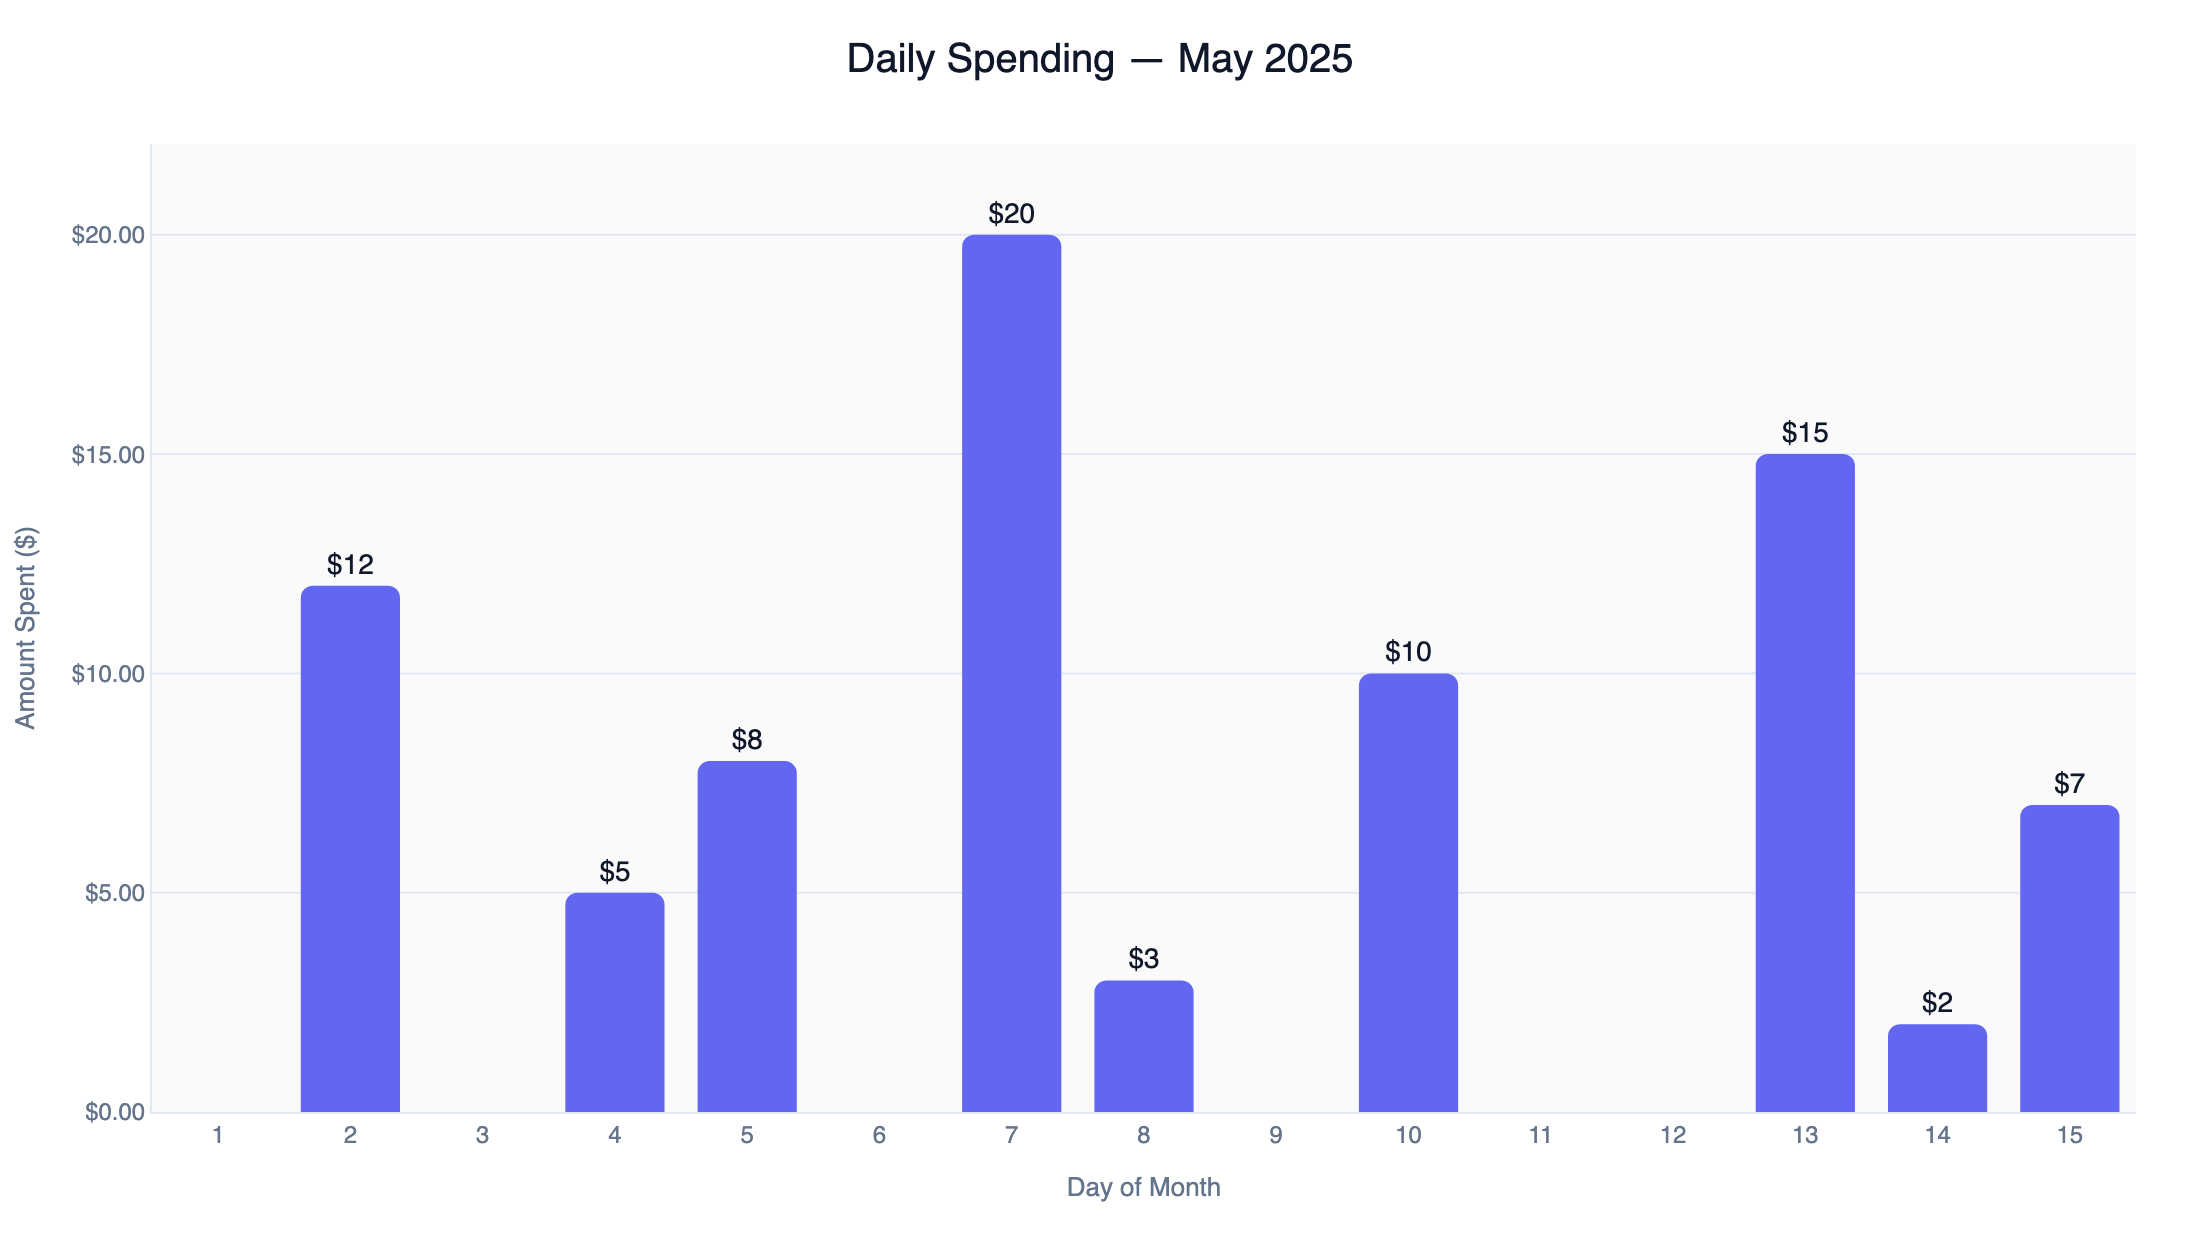
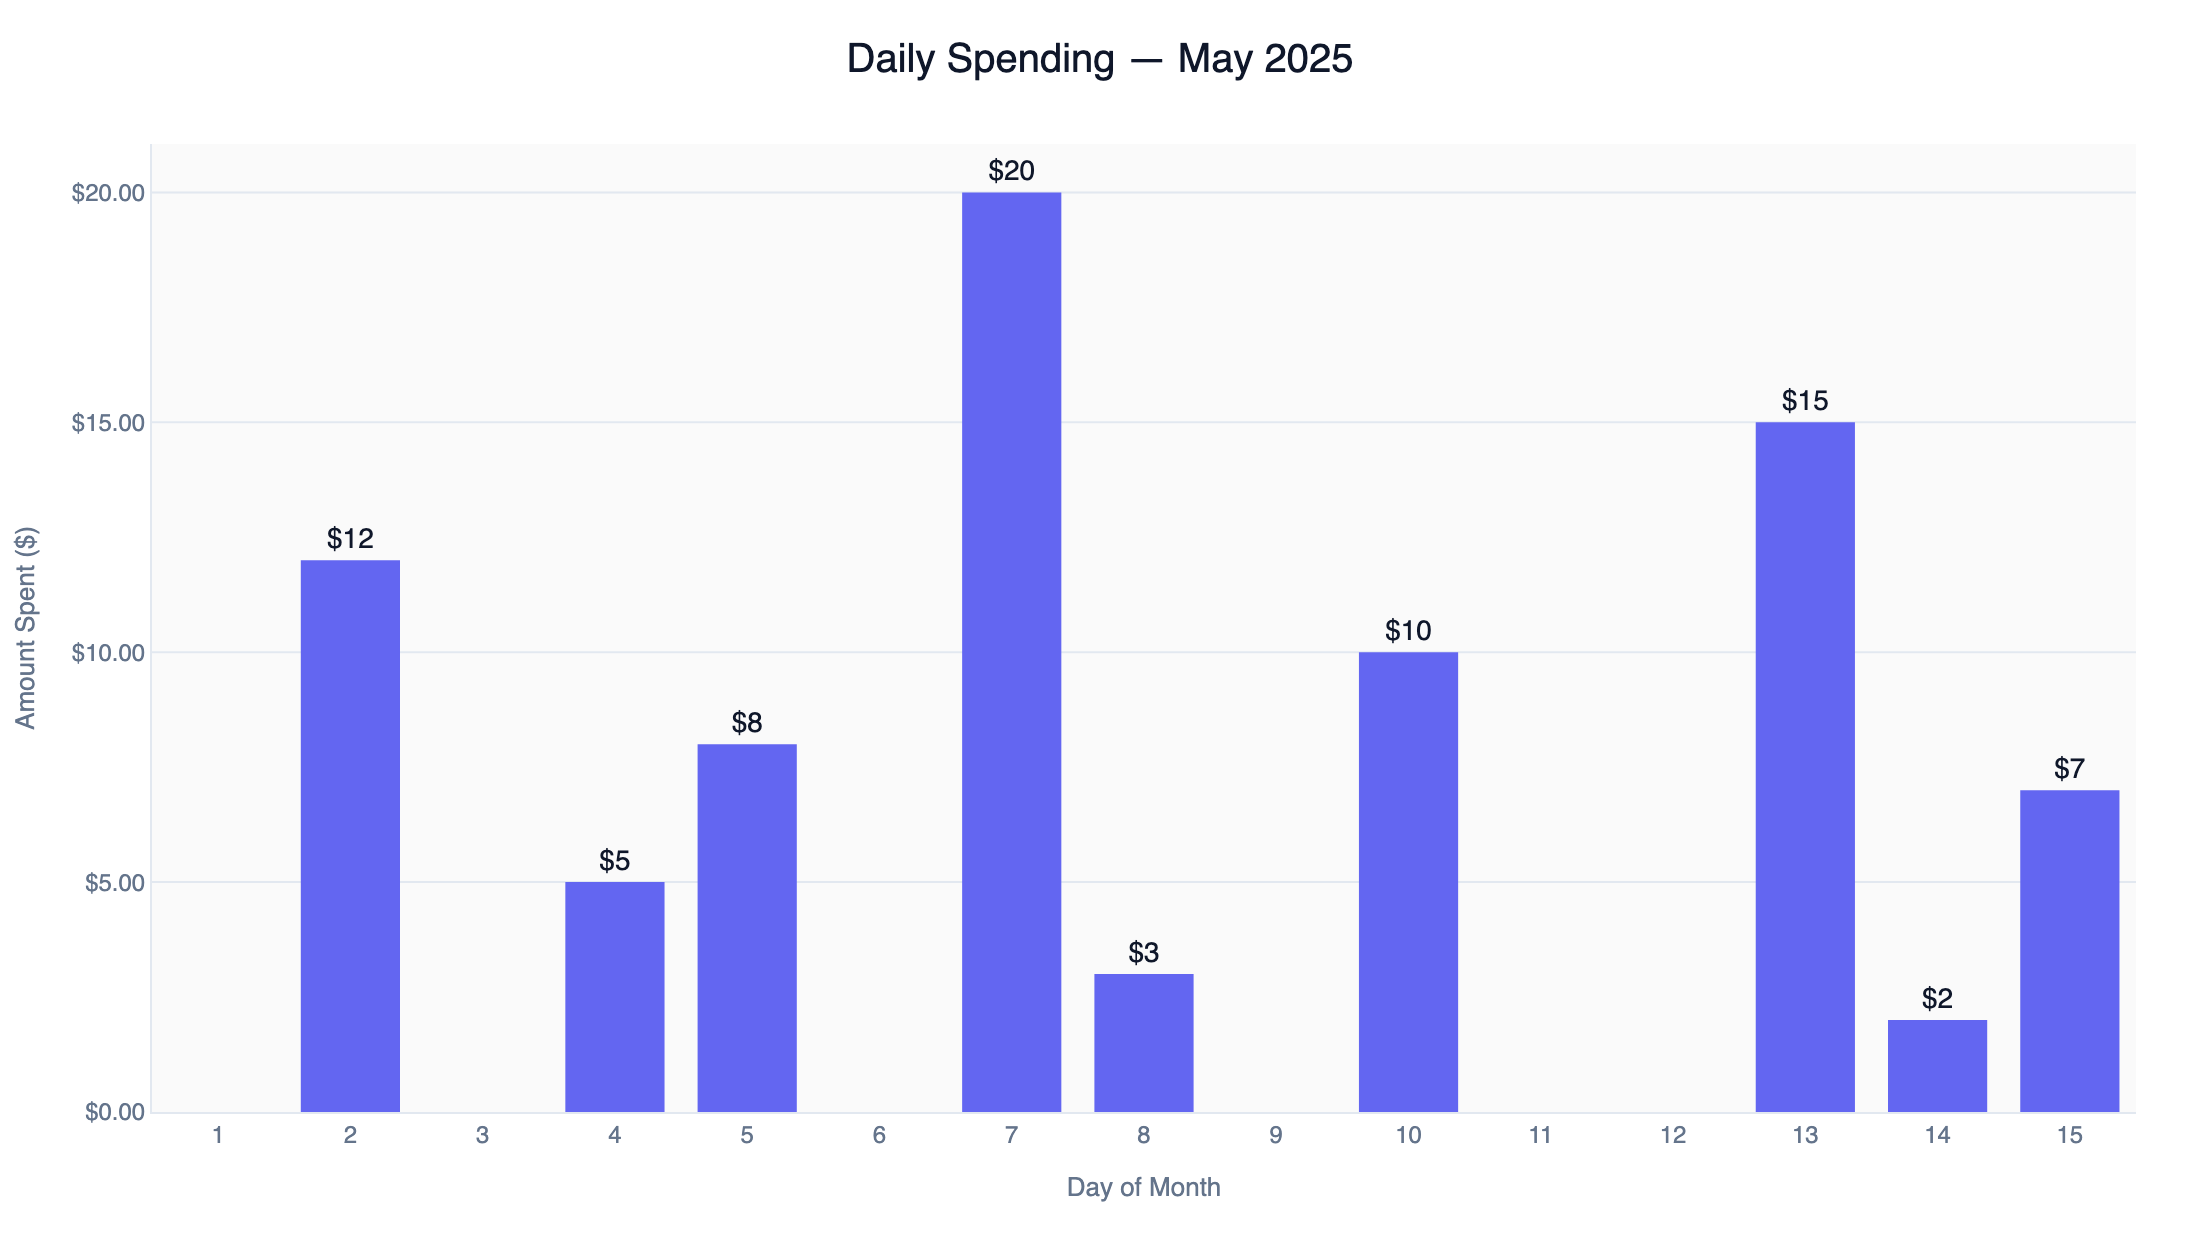
Pin Kaleido 0.2.1 so Discord charts render on Railway without Chrome.
Kaleido 1.x expects a system Google Chrome install, which bare Railway images lack; the 0.2.1 release bundles its own headless browser for fig.to_image().

diff --git a/src/bookiebot/charts/render.py b/src/bookiebot/charts/render.py
@@ -41,7 +41,14 @@ def figure_to_png_bytes_sync(
     try:
         image_bytes = fig.to_image(format="png", width=width, height=height, scale=scale)
     except Exception as exc:  # pragma: no cover - depends on kaleido runtime
-        raise ChartRenderError(f"Failed to render chart image: {exc}") from exc
+        message = str(exc).strip() or exc.__class__.__name__
+        if "Chrome" in message or "chrome" in message:
+            message = (
+                f"{message} "
+                "(BookieBot pins kaleido 0.2.1 to avoid a system Chrome dependency; "
+                "redeploy if the host is still on kaleido 1.x.)"
+            )
+        raise ChartRenderError(f"Failed to render chart image: {message}") from exc
     if not image_bytes:
         raise ChartRenderError("Chart image export returned empty output")
     return bytes(image_bytes)

diff --git a/src/bookiebot/charts/daily_spending.py b/src/bookiebot/charts/daily_spending.py
@@ -37,7 +37,7 @@ def build_daily_spending_figure(
             go.Bar(
                 x=day_list,
                 y=amount_list,
-                marker=dict(color=colors, line=dict(width=0), cornerradius=6),
+                marker=dict(color=colors, line=dict(width=0)),
                 hovertemplate="Day %{x}<br>Spent: $%{y:.2f}<extra></extra>",
                 text=[f"${amount:.0f}" if amount >= 1 else "" for amount in amount_list],
                 textposition="outside",

diff --git a/README.md b/README.md
@@ -19,7 +19,7 @@ It leverages agentic AI to understand natural language commands, update a Google
 - **Discord.py** — Discord bot framework
 - **Google Sheets API** — data storage and retrieval
 - **OpenAI API** — natural language understanding
-- **Plotly + Kaleido** — chart rendering for Discord image attachments
+- **Plotly + Kaleido** — chart rendering for Discord image attachments (Kaleido 0.2.x for self-contained PNG export on Railway)
 - **AsyncIO** — asynchronous event loop and I/O
 - **Railway** — deployment platform
 